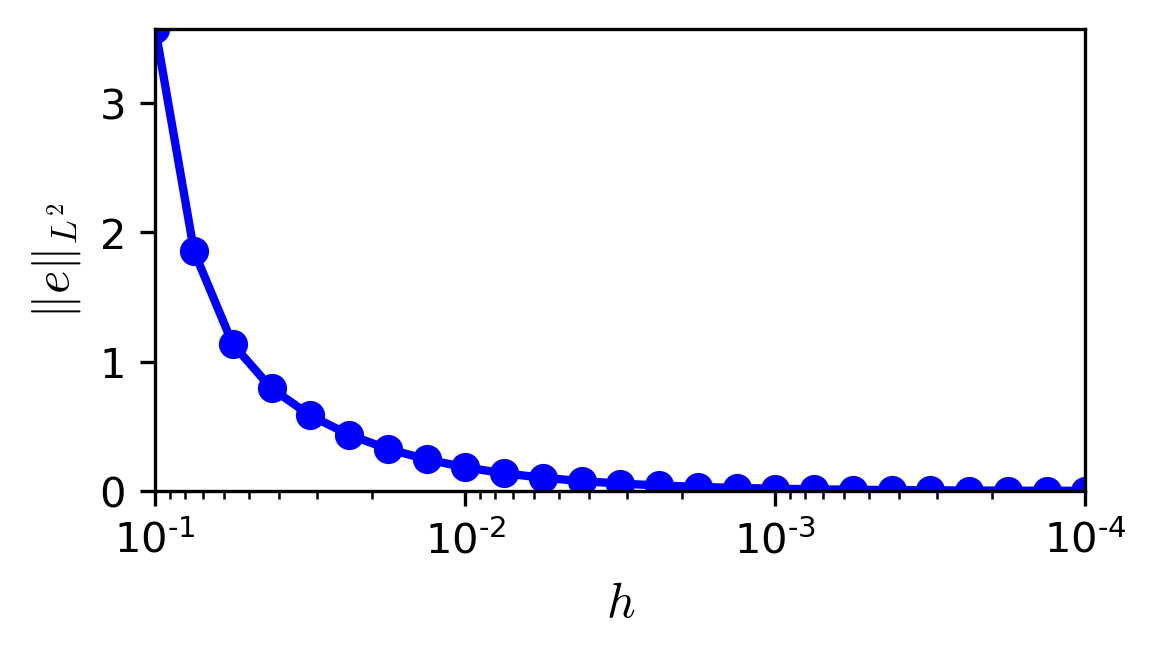
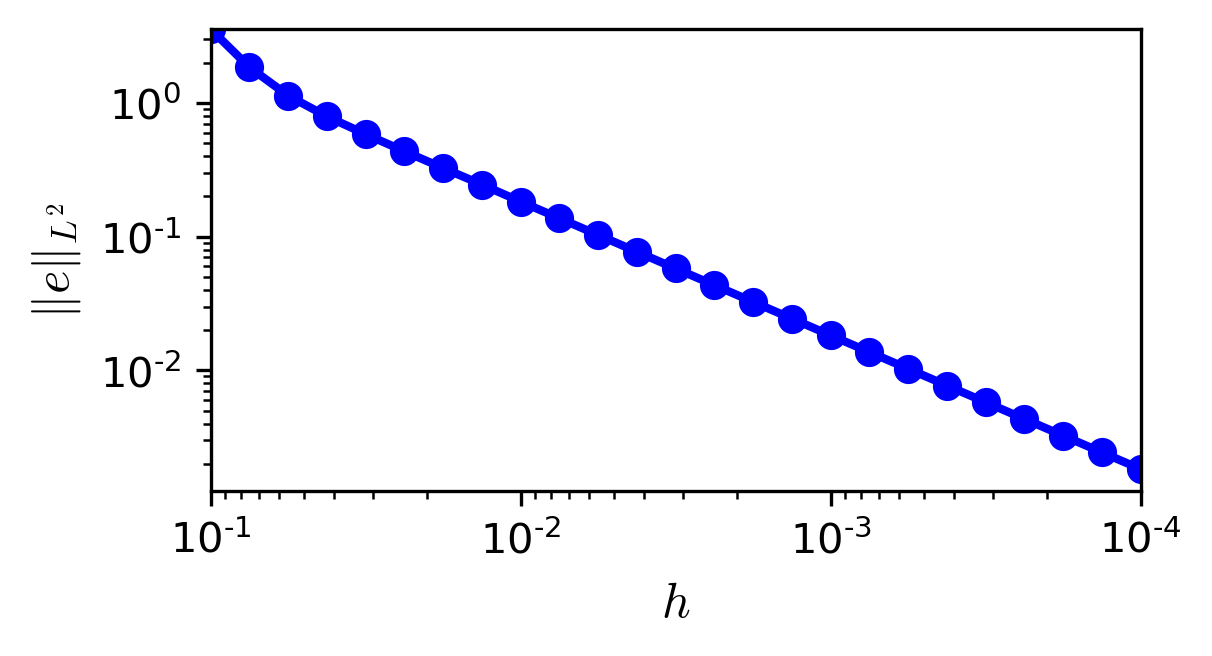
Addition of updated files for p2.

diff --git a/HW1-gr7610/p2/p2a.py b/HW1-gr7610/p2/p2a.py
@@ -73,6 +73,7 @@ if __name__ == "__main__":
 
     ax.plot([k for k in errors.keys()], [v for v in errors.values()], marker='o', lw=2, c='b')
     ax.set_xscale('log')
+    ax.set_yscale('log')
      
     ax.set_xlim([min([k for k in errors.keys()]), max([k for k in errors.keys()])])
     ax.set_xlim(ax.get_xlim()[::-1])
